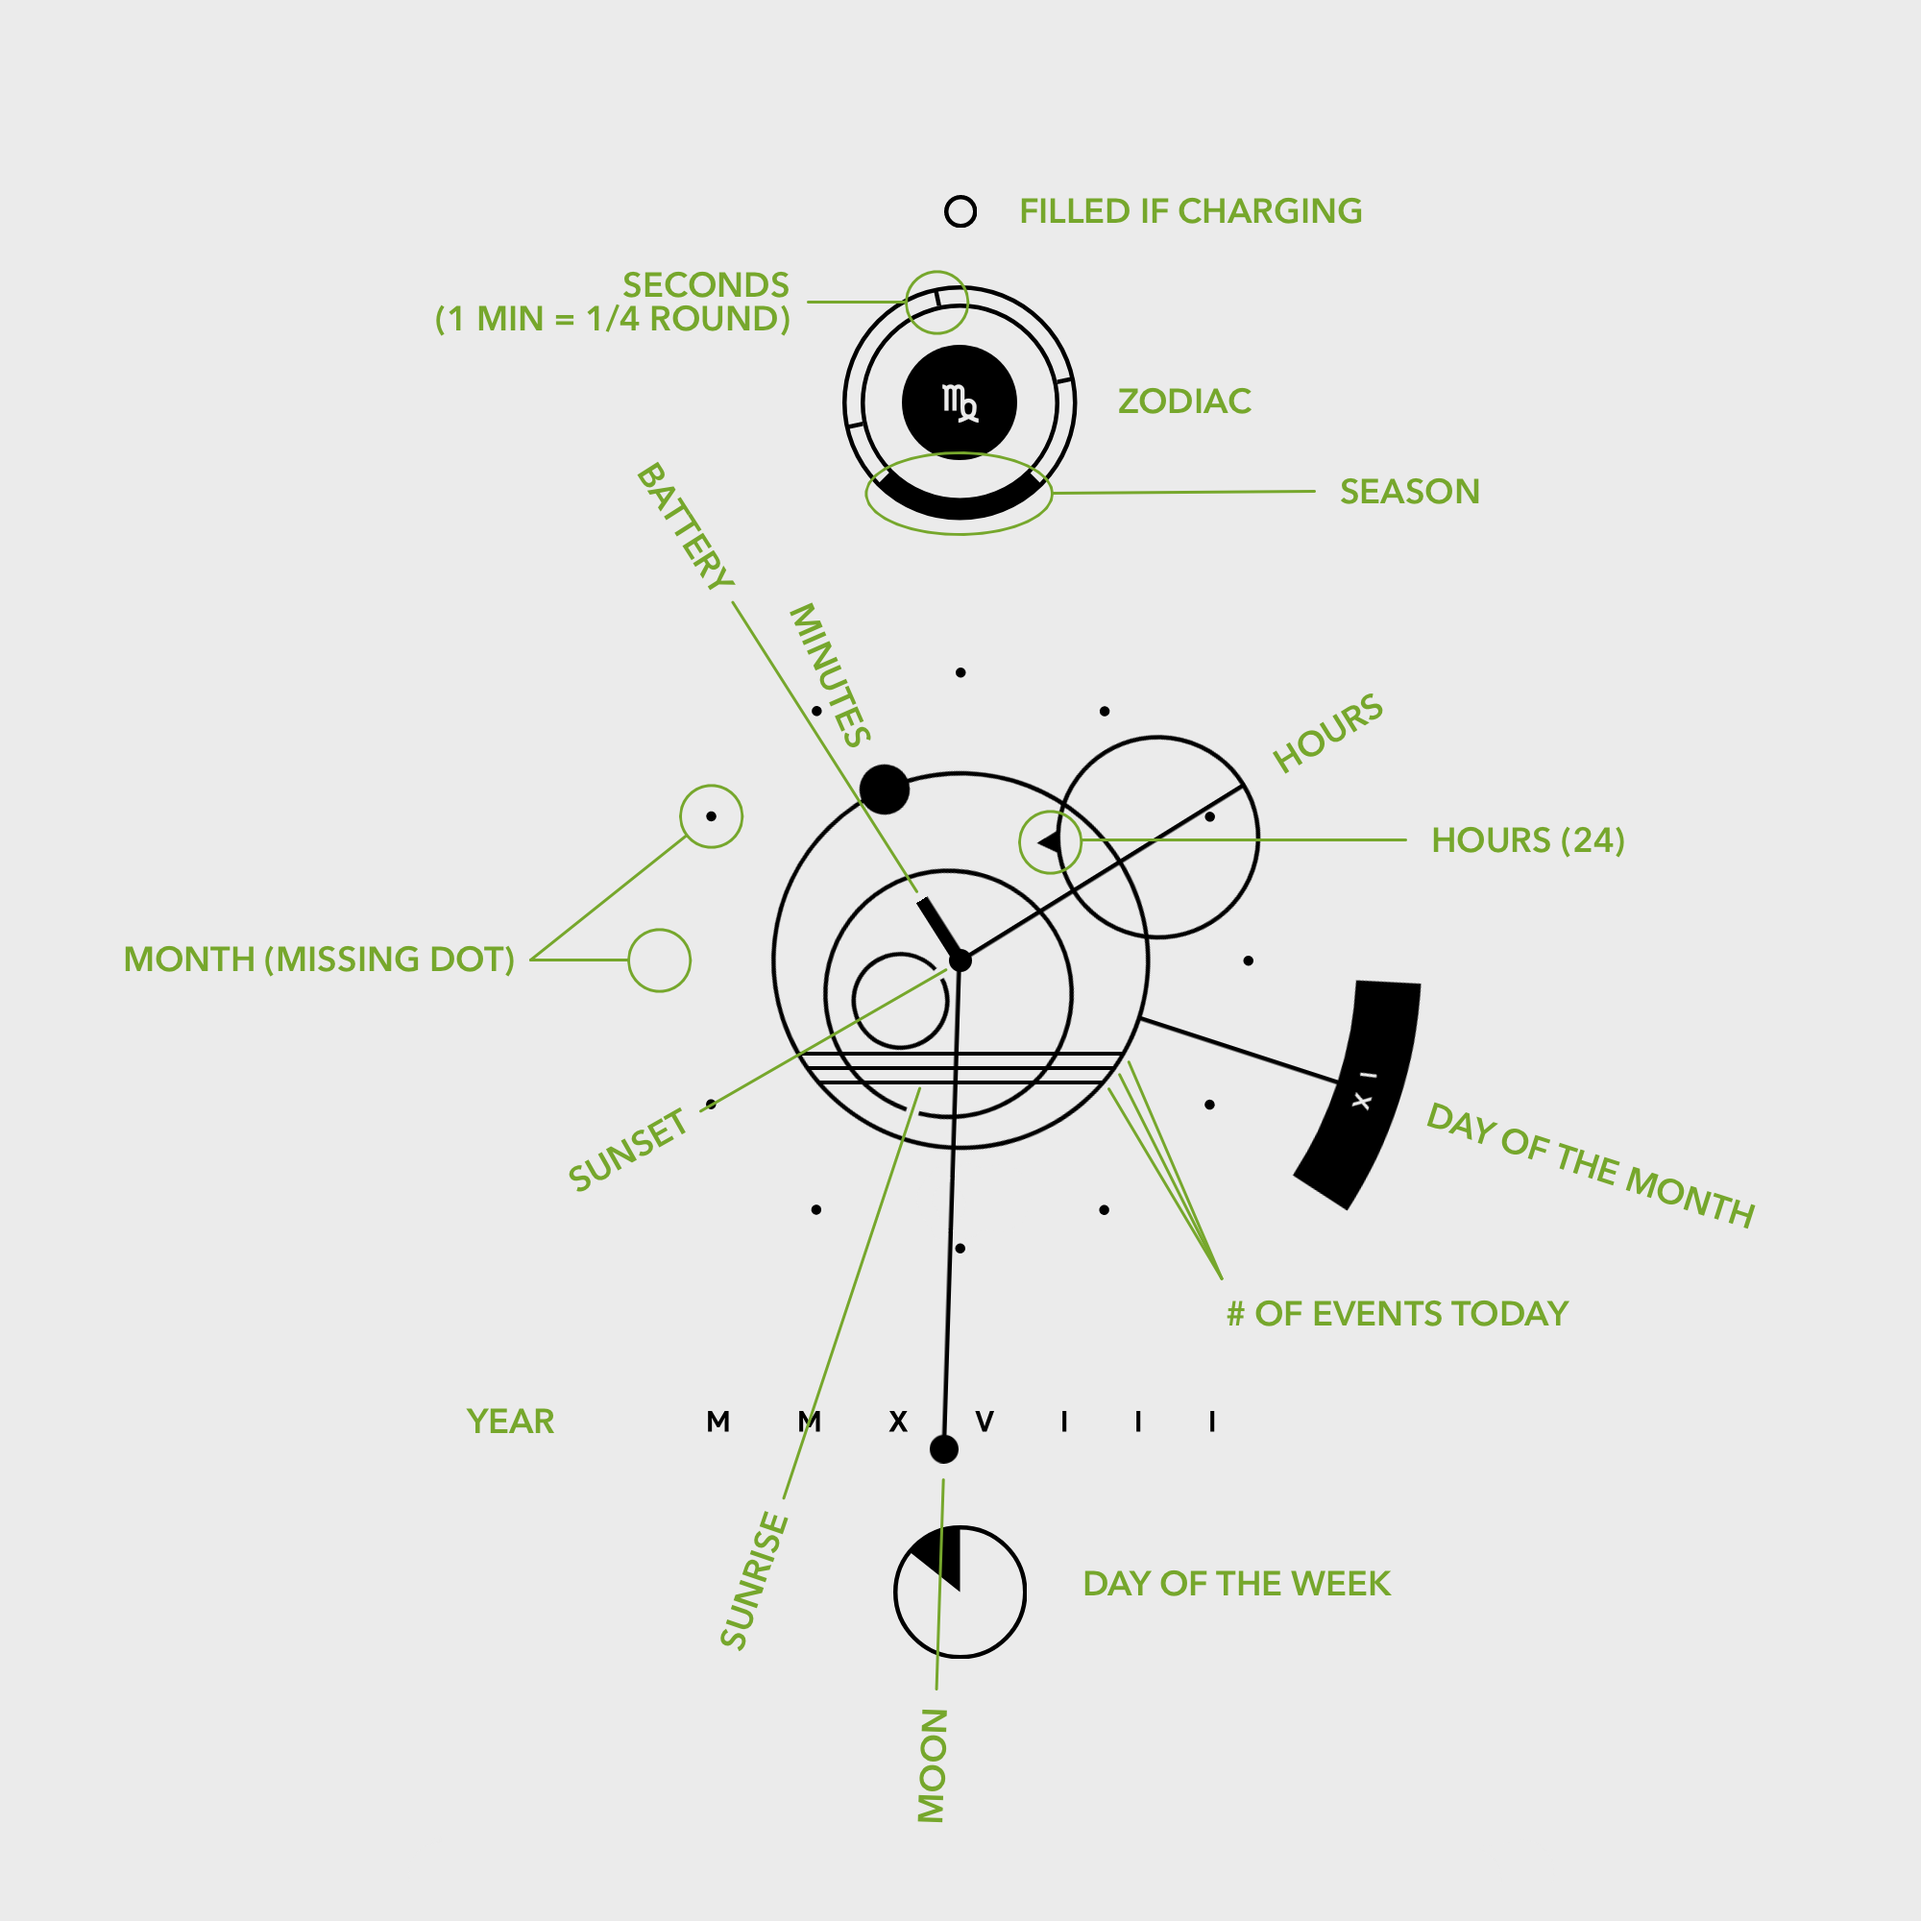
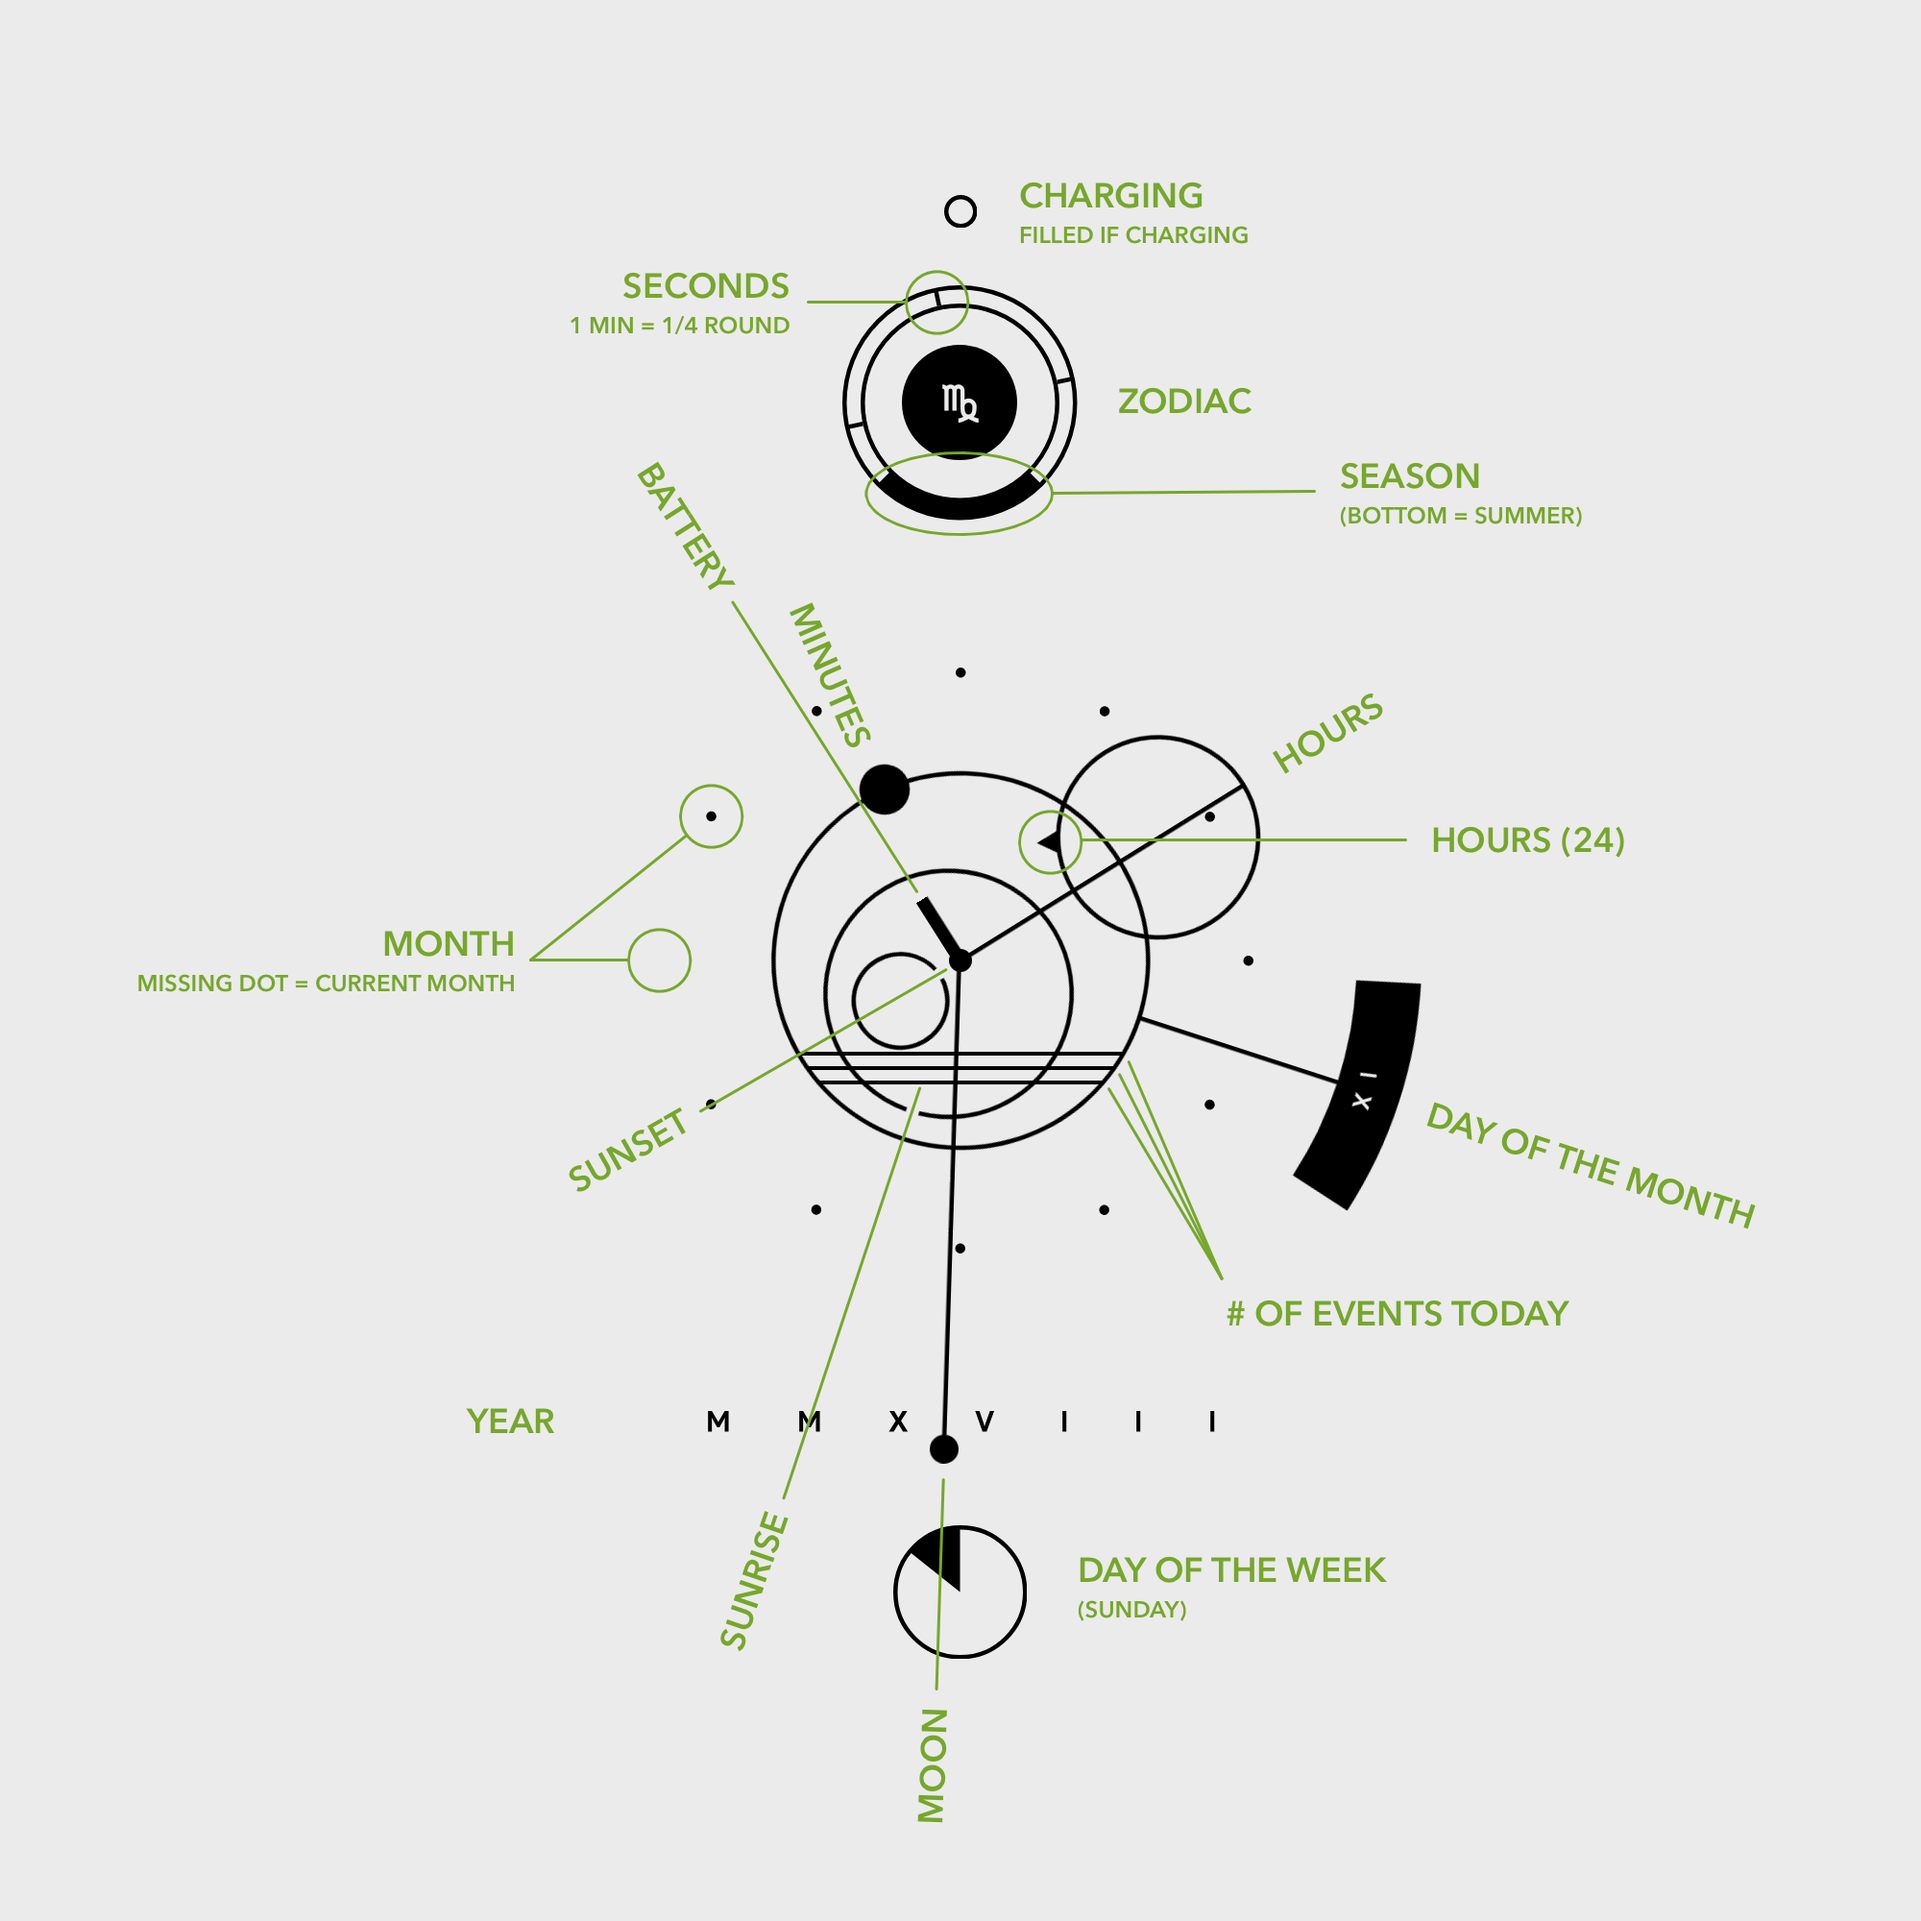
Clock explanation

diff --git a/_site/clock/index.html b/_site/clock/index.html
@@ -89,30 +89,11 @@
 
 <p><img src="/portfolio/assets/clock/clock-sky.png" alt="" /></p>
 
-<p>Here’s all the informations it gives me:</p>
-<ul>
-  <li>hours (12h and 24h format)</li>
-  <li>minutes</li>
-  <li>seconds</li>
-  <li>year</li>
-  <li>month</li>
-  <li>day of the month</li>
-  <li>day of the week</li>
-  <li>sunrise time</li>
-  <li>sunset time</li>
-  <li>season</li>
-  <li>zodiac</li>
-  <li>moon luminosity</li>
-  <li>whether the phone is charging</li>
-  <li>battery level</li>
-  <li>number of events on my calendar today</li>
-</ul>
-
 <p>Here’s how it works:</p>
 
 <p><img src="/portfolio/assets/clock/clock-explained.png" alt="" /></p>
 
-<p>You’re probably wondering <em>why</em>. Well, I had some free time and it looks good sooo yeah.</p>
+<p>You’re probably wondering <em>why</em>. Well, I had some free time and it looks good sooo here it is.</p>
 
 
   <div class="bottom_navigation_buttons">

diff --git a/_posts/2018-09-09-clock.md b/_posts/2018-09-09-clock.md
@@ -14,25 +14,8 @@ This is the clock you can find on my phone home screen. I made it using *[KWLP](
 
 ![]({{ site.baseurl }}{{ page.assets_folder }}/clock-sky.png)
 
-Here's all the informations it gives me:
-* hours (12h and 24h format)
-* minutes
-* seconds
-* year
-* month
-* day of the month
-* day of the week
-* sunrise time
-* sunset time
-* season
-* zodiac
-* moon luminosity
-* whether the phone is charging
-* battery level
-* number of events on my calendar today
-
 Here's how it works:
 
 ![]({{ site.baseurl }}{{ page.assets_folder }}/clock-explained.png)
 
-You're probably wondering *why*. Well, I had some free time and it looks good sooo yeah.
+You're probably wondering *why*. Well, I had some free time and it looks good sooo here it is.
